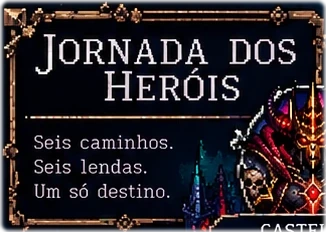
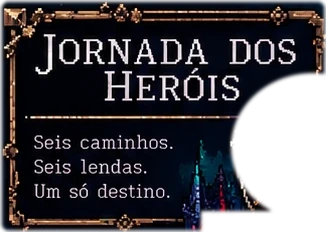
v161: titulo sem o brasao do boss
Claude-Session: https://claude.ai/code/session_01YFC38PcyDKAfPNhJ7r1cKG

Changed region(s): [[0.6135, 0.3017, 1.0, 1.0]]

diff --git a/sw.js b/sw.js
@@ -1,4 +1,4 @@
-const CACHE='bd1-rpg-v160';
+const CACHE='bd1-rpg-v161';
 const ASSETS=['./','./index.html','./game.html','./lobby.js','./bag_panel.png','./bag_button.png','./menu_meta.js','./menu_assassin.png','./menu_mage.png','./menu_knight.png','./menu_tank.png','./menu_elem.png','./icon_tipo_sword.png','./lobby.css','./select_plate.webp','./char_mage.webp','./char_knight.webp','./char_tank.webp','./char_assassin.webp','./panel_mage.webp','./panel_knight.webp','./panel_tank.webp','./panel_assassin.webp','./style.css','./app.js','./anim.js','./mage.js','./cleric.js','./tank.js','./knight.js','./boss.js','./boss/meta.json','./boss/B_1.png','./boss/B_2.png','./boss/B_3.png','./boss/B_4.png','./boss/B_5.png','./boss/B_6.png','./boss/B_7.png','./boss/B_8.png','./boss/B_9.png','./boss/B_10.png','./boss/B_11.png','./boss/B_12.png','./fxsoft.js','./ambient.js','./knight/K1_1.png','./knight/K1_10.png','./knight/K1_11.png','./knight/K1_13.png','./knight/K1_14.png','./knight/K1_15.png','./knight/K1_19.png','./knight/K1_2.png','./knight/K1_20.png','./knight/K1_21.png','./knight/K1_22.png','./knight/K1_23.png','./knight/K1_24.png','./knight/K1_25.png','./knight/K1_26.png','./knight/K1_27.png','./knight/K1_28.png','./knight/K1_29.png','./knight/K1_30.png','./knight/K1_31.png','./knight/K1_32.png','./knight/K1_35.png','./knight/K1_37.png','./knight/K1_4.png','./knight/K1_41.png','./knight/K1_42.png','./knight/K1_44.png','./knight/K1_45.png','./knight/K1_46.png','./knight/K1_49.png','./knight/K1_5.png','./knight/K1_6.png','./knight/K1_7.png','./knight/K1_8.png','./knight/K1_9.png','./knight/K2_10.png','./knight/K2_11.png','./knight/K2_13.png','./knight/K2_14.png','./knight/K2_15.png','./knight/K2_16.png','./knight/K2_17.png','./knight/K2_18.png','./knight/K2_19.png','./knight/K2_2.png','./knight/K2_20.png','./knight/K2_21.png','./knight/K2_22.png','./knight/K2_23.png','./knight/K2_24.png','./knight/K2_25.png','./knight/K2_26.png','./knight/K2_28.png','./knight/K2_29.png','./knight/K2_3.png','./knight/K2_30.png','./knight/K2_32.png','./knight/K2_33.png','./knight/K2_34.png','./knight/K2_35.png','./knight/K2_37.png','./knight/K2_38.png','./knight/K2_39.png','./knight/K2_4.png','./knight/K2_41.png','./knight/K2_42.png','./knight/K2_43.png','./knight/K2_44.png','./knight/K2_45.png','./knight/K2_46.png','./knight/K2_5.png','./knight/K2_6.png','./knight/K2_7.png','./knight/K2_8.png','./knight/K2_9.png','./knight/K3_1.png','./knight/K3_10.png','./knight/K3_11.png','./knight/K3_12.png','./knight/K3_13.png','./knight/K3_14.png','./knight/K3_15.png','./knight/K3_16.png','./knight/K3_17.png','./knight/K3_18.png','./knight/K3_2.png','./knight/K3_20.png','./knight/K3_21.png','./knight/K3_22.png','./knight/K3_23.png','./knight/K3_24.png','./knight/K3_25.png','./knight/K3_26.png','./knight/K3_27.png','./knight/K3_28.png','./knight/K3_29.png','./knight/K3_3.png','./knight/K3_30.png','./knight/K3_31.png','./knight/K3_32.png','./knight/K3_33.png','./knight/K3_34.png','./knight/K3_35.png','./knight/K3_36.png','./knight/K3_37.png','./knight/K3_38.png','./knight/K3_39.png','./knight/K3_4.png','./knight/K3_40.png','./knight/K3_41.png','./knight/K3_42.png','./knight/K3_43.png','./knight/K3_44.png','./knight/K3_45.png','./knight/K3_46.png','./knight/K3_47.png','./knight/K3_48.png','./knight/K3_5.png','./knight/K3_6.png','./knight/K3_7.png','./knight/K3_8.png','./knight/K3_9.png','./knight/fx_ice.png','./knight/fx_rocksA.png','./knight/fx_rock1.png','./knight/fx_rock2.png','./knight/fx_rock3.png','./knight/fx_rock4.png','./knight/fx_slash.png','./knight/meta.json','./clr/at1.png','./clr/at2.png','./clr/at3.png','./clr/bg1.png','./clr/bg2.png','./clr/bg3.png','./clr/bg4.png','./clr/bp1.png','./clr/bp2.png','./clr/bp3.png','./clr/br1.png','./clr/br2.png','./clr/br3.png','./clr/br4.png','./clr/br5.png','./clr/br6.png','./clr/bt1.png','./clr/bt2.png','./clr/bt3.png','./clr/bt4.png','./clr/d1.png','./clr/d2.png','./clr/d3.png','./clr/d4.png','./clr/dg1.png','./clr/dg2.png','./clr/dg3.png','./clr/dn1.png','./clr/dn2.png','./clr/dn3.png','./clr/ds1.png','./clr/ex1.png','./clr/fx_aura.png','./clr/fx_burst.png','./clr/fx_cross1.png','./clr/fx_lotus.png','./clr/fx_pillar.png','./clr/fx_pillar2.png','./clr/fx_ring1.png','./clr/fx_ring2.png','./clr/fx_ring3.png','./clr/fx_star1.png','./clr/fx_star2.png','./clr/fx_star3.png','./clr/fx_star4.png','./clr/fx_streak1.png','./clr/fx_streak2.png','./clr/fx_streak3.png','./clr/fx_sunstar.png','./clr/hat1.png','./clr/hat2.png','./clr/idle1.png','./clr/meta.json','./clr/pr1.png','./clr/pr2.png','./clr/stf.png','./clr/ult1.png','./clr/ult2.png','./clr/v1.png','./clr/v2.png','./mage3/air.png','./mage3/atk1.png','./mage3/atk2.png','./mage3/atk3.png','./mage3/bh1.png','./mage3/bh2.png','./mage3/castdef.png','./mage3/defair.png','./mage3/defearth.png','./mage3/deffire.png','./mage3/defmana.png','./mage3/defwater.png','./mage3/dodge1.png','./mage3/dodge2.png','./mage3/dodge3.png','./mage3/dodge4.png','./mage3/earth.png','./mage3/fire.png','./mage3/fx_air_swirl.png','./mage3/fx_bh_big.png','./mage3/fx_bh_big2.png','./mage3/fx_bh_small.png','./mage3/fx_bh_spikes.png','./mage3/fx_bolt.png','./mage3/fx_comet.png','./mage3/fx_cross.png','./mage3/fx_crystal.png','./mage3/fx_earth_spikes.png','./mage3/fx_fire_fall.png','./mage3/fx_mana_aura.png','./mage3/fx_orb_blue.png','./mage3/fx_orb_orange.png','./mage3/fx_orb_red.png','./mage3/fx_orbb.png','./mage3/fx_ring_floor.png','./mage3/fx_rock.png','./mage3/fx_rocks.png','./mage3/fx_star_big.png','./mage3/fx_star_small.png','./mage3/fx_water_pillar.png','./mage3/fx_whirl.png','./mage3/idle1.png','./mage3/idle2.png','./mage3/idle3.png','./mage3/idle4.png','./mage3/meta.json','./mage3/spin1.png','./mage3/spinwide.png','./mage3/stars.png','./mage3/swingf.png','./mage3/swingl.png','./mage3/swingr.png','./mage3/water.png','./anim/manifest.json','./spr_mage.webp','./spr_knight.webp','./spr_tank.webp','./spr_assassin.webp','./spr_boss.webp','./skel/skel_face.png','./skel/skel_7.png','./skel/skel_8.png','./skel/skel_9.png','./skel/skel_10.png','./intro.js','./map.html','./fog.css','./fog.js','./fog/top.webp','./fog/bot.webp','./map.css','./map.js','./quotes.js','./hud.js','./map/ui_title.webp','./map/ui_compass.webp','./map/ui_legend.webp','./map/ui_quote.webp','./mapfx.js','./map/water.png','./map/base.webp','./map/meta.json','./map/ic_done.webp','./map/ic_next.webp','./map/ic_lock.webp','./map/halo0_blue.webp','./map/halo1_green.webp','./map/gray0.webp','./map/gray1.webp','./map/gray2.webp','./map/gray3.webp','./map/gray4.webp','./map/gray5.webp','./intro/throne_close.webp','./intro/throne_far.webp','./game_clean.png','./game_nohud.png','./hud_mage.png','./hud_knight.png','./hud_tank.png','./hud_assassin.png','./question_panel.png','./icon_attack.png','./icon_coin.png','./manifest.webmanifest','./potion_hp.png','./potion_mana.png','./tank/a_bub.png','./tank/a_cr.png','./tank/a_dust.png','./tank/a_hh.png','./tank/a_i1.png','./tank/a_i2.png','./tank/a_lo.png','./tank/a_rd.png','./tank/a_rl1.png','./tank/a_rl2.png','./tank/a_s1.png','./tank/a_s2.png','./tank/a_sw.png','./tank/a_swl.png','./tank/d_a1.png','./tank/d_a2.png','./tank/d_a3.png','./tank/d_a4.png','./tank/d_e1.png','./tank/d_e2.png','./tank/d_e3.png','./tank/d_e4.png','./tank/d_f1.png','./tank/d_f2.png','./tank/d_f3.png','./tank/d_h1.png','./tank/d_h2.png','./tank/d_h3.png','./tank/d_h4.png','./tank/d_i1.png','./tank/d_i2.png','./tank/d_i3.png','./tank/d_m1.png','./tank/d_m2.png','./tank/d_m3.png','./tank/d_m4.png','./tank/d_p1.png','./tank/d_p3.png','./tank/d_u1.png','./tank/d_u2.png','./tank/fx_bring.png','./tank/fx_bspike.png','./tank/fx_earth.png','./tank/fx_rockburst.png','./tank/meta.json','./tank/n1.png','./tank/n2.png','./tank/n3.png','./tank/p1.png','./tank/tA.png','./tank/tB.png','./tank/tC.png','./tank/v1.png','./tank/v2.png','./tank/v3.png','./tank/v4.png'];
 // Tudo em cache (abre instantâneo, até offline). Em segundo plano o SW confere a rede (requisição condicional, barata);
 // se algum arquivo mudou, atualiza o cache e avisa a página, que recarrega sozinha (menu) ou mostra o aviso (jogo).

diff --git a/index.html b/index.html
@@ -91,7 +91,7 @@ confirmBtn.onclick=()=>{
   if(!r.ok){say(r.reason==='full'?'Essa classe acabou de lotar.':'Classe inválida.');selected=null;render();return}
   document.body.classList.add('leaving');sessionStorage.setItem('bd1_fog','1');Fog.close(document.getElementById('stage'),1000).then(()=>{location.href='map.html'+location.search});
 };
-(()=>{const V='v160',b=document.getElementById('upd-btn');b.textContent='↻ ATUALIZAR · '+V;
+(()=>{const V='v161',b=document.getElementById('upd-btn');b.textContent='↻ ATUALIZAR · '+V;
 b.onclick=async function(){b.disabled=true;b.textContent='ATUALIZANDO…';
 try{if('serviceWorker' in navigator){const rs=await navigator.serviceWorker.getRegistrations();await Promise.all(rs.map(r=>r.unregister()))}
 if(window.caches){const ks=await caches.keys();await Promise.all(ks.map(k=>caches.delete(k)))}

diff --git a/tools/build_map_ui.py b/tools/build_map_ui.py
@@ -9,7 +9,9 @@ for k, v in B.items():
     else: _, cx, cy, r = v; x0, y0, x1, y1 = cx - r - 6, cy - r - 6, cx + r + 6, cy + r + 6
     w, h = x1 - x0, y1 - y0; m = Image.new('L', (w * 4, h * 4), 0); d = ImageDraw.Draw(m)
     if v[0] == 'rect': d.rounded_rectangle([6 * 4, 6 * 4, (w - 6) * 4, (h - 6) * 4], radius=5 * 4, fill=255) if False else d.rounded_rectangle([4 * 2, 4 * 2, w * 4 - 4 * 2, h * 4 - 4 * 2], radius=6 * 4, fill=255)
-    else:
+    if k == 'title':   # tira o brasão do Castelo (e a placa do nome) — ficam com o mapa, abaixo das nuvens
+        d.ellipse([(317 - 82 - x0) * 4, (157 - 74 - y0) * 4, (317 + 82 - x0) * 4, (157 + 74 - y0) * 4], fill=0); d.rectangle([(205 - x0) * 4, (221 - y0) * 4, w * 4, h * 4], fill=0)
+    if v[0] != 'rect':
         import numpy as np
         yy, xx = np.mgrid[0:h, 0:w]; dd = np.hypot(xx - w / 2 + .5, yy - h / 2 + .5); a = np.clip((88 - dd) / 14, 0, 1)
         m = Image.fromarray((a * 255).astype('uint8'))

diff --git a/README.md b/README.md
@@ -403,3 +403,4 @@ Guerreiro: âncora das poses trocada (centro do corpo azul + chão por percentil
 - v158: relâmpago com clarão na sala toda (luz azulada) e brilho em volta do raio; raio continua no fundo.
 - v159: corrigido bug das nuvens mais à frente no menu/mapa ao abrir direto (a posição de repouso era calculada com as nuvens ainda ocultas); agora também reajusta ao carregar, ao mudar o layout e ao voltar pelo histórico.
 - v160: caixas do mapa (título, rosa dos ventos, legenda, frase) acima das nuvens, aparecendo depois que o mapa carrega e as nuvens densas saem (hud.js + map/ui_*.webp).
+- v161: caixa 'Jornada dos Heróis' acima das nuvens sem o brasão do Castelo (o brasão fica com o mapa).
